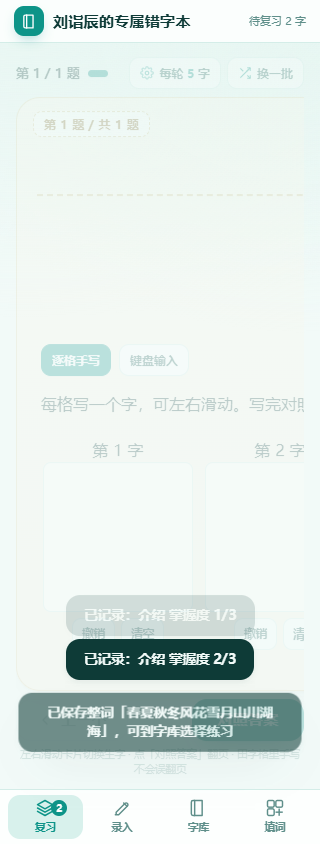
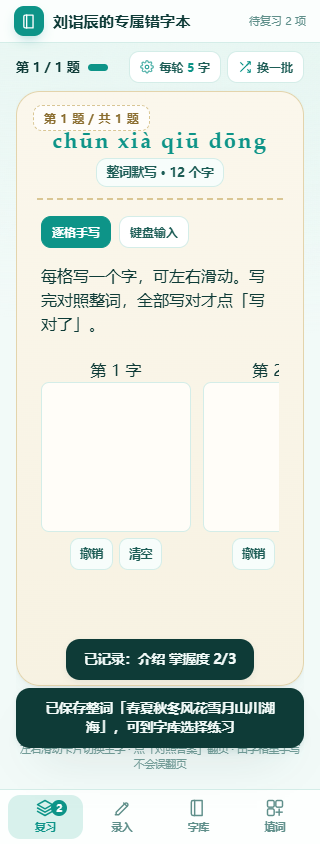
自动上传: 2026-11-20 15:44 更新 6 个文件

diff --git a/index.html b/index.html
@@ -1894,7 +1894,11 @@ textarea::-webkit-input-placeholder{opacity:var(--ph-op,.6);}
 .gq-pinyin{font-size:24px;color:var(--primary);font-weight:700;text-align:center;padding:10px;}
 .game-score{display:flex;justify-content:space-between;gap:8px;flex-wrap:wrap;font-size:13px;color:var(--ink-2);}
 
-#wordReview{width:100%;min-width:0;overflow:auto;padding:8px 4px;}
+#wordReview{width:100%;min-width:0;min-height:0;overflow:auto;padding:8px 4px;}
+.word-mode .pane-write{justify-content:flex-start;overflow-y:auto;}
+.word-mode .pane-write .pinyin{font-size:clamp(22px,4vw,34px);white-space:normal;overflow-wrap:anywhere;}
+.word-mode .pane-write .prompt{padding-top:24px;}
+#dChar{overflow-wrap:anywhere;max-width:100%;}
 #wordReview[hidden],#wordType[hidden]{display:none;}
 .word-modes{display:flex;gap:8px;margin-bottom:10px;}
 .word-cells{display:flex;gap:12px;overflow-x:auto;padding:6px 2px 14px;scroll-snap-type:x proximity;}
@@ -8412,7 +8416,7 @@ function updateCounts(){
   $('libCountLearning').textContent = learning;
   $('libCountMastered').textContent = mastered;
   $('libCountAll').textContent = S.words.length;
-  $('topSub').textContent = '待复习 ' + learning + ' 字';
+  $('topSub').textContent = '待复习 ' + learning + ' 项';
   $('roundSizeLabel').textContent = S.roundSize;
 
   const badge = $('tabBadge');
@@ -9603,6 +9607,7 @@ function renderCard(){
     const masked = w.split(item.char).join('<span class="blank">□</span>');
     return '<span class="hint-chip">' + masked + ' <small>' + (py || '') + '</small></span>';
   });
+  if(item.char.length > 1){ hints = ['<span class="hint-chip">整词默写 · ' + item.char.length + ' 个字</span>']; }
   if(!hints.length){
     hints = ['<span class="hint-chip">暂无组词 · 凭拼音直接默写</span>'];
   }

diff --git a/world-correct.html b/world-correct.html
@@ -1894,7 +1894,11 @@ textarea::-webkit-input-placeholder{opacity:var(--ph-op,.6);}
 .gq-pinyin{font-size:24px;color:var(--primary);font-weight:700;text-align:center;padding:10px;}
 .game-score{display:flex;justify-content:space-between;gap:8px;flex-wrap:wrap;font-size:13px;color:var(--ink-2);}
 
-#wordReview{width:100%;min-width:0;overflow:auto;padding:8px 4px;}
+#wordReview{width:100%;min-width:0;min-height:0;overflow:auto;padding:8px 4px;}
+.word-mode .pane-write{justify-content:flex-start;overflow-y:auto;}
+.word-mode .pane-write .pinyin{font-size:clamp(22px,4vw,34px);white-space:normal;overflow-wrap:anywhere;}
+.word-mode .pane-write .prompt{padding-top:24px;}
+#dChar{overflow-wrap:anywhere;max-width:100%;}
 #wordReview[hidden],#wordType[hidden]{display:none;}
 .word-modes{display:flex;gap:8px;margin-bottom:10px;}
 .word-cells{display:flex;gap:12px;overflow-x:auto;padding:6px 2px 14px;scroll-snap-type:x proximity;}
@@ -8412,7 +8416,7 @@ function updateCounts(){
   $('libCountLearning').textContent = learning;
   $('libCountMastered').textContent = mastered;
   $('libCountAll').textContent = S.words.length;
-  $('topSub').textContent = '待复习 ' + learning + ' 字';
+  $('topSub').textContent = '待复习 ' + learning + ' 项';
   $('roundSizeLabel').textContent = S.roundSize;
 
   const badge = $('tabBadge');
@@ -9603,6 +9607,7 @@ function renderCard(){
     const masked = w.split(item.char).join('<span class="blank">□</span>');
     return '<span class="hint-chip">' + masked + ' <small>' + (py || '') + '</small></span>';
   });
+  if(item.char.length > 1){ hints = ['<span class="hint-chip">整词默写 · ' + item.char.length + ' 个字</span>']; }
   if(!hints.length){
     hints = ['<span class="hint-chip">暂无组词 · 凭拼音直接默写</span>'];
   }
